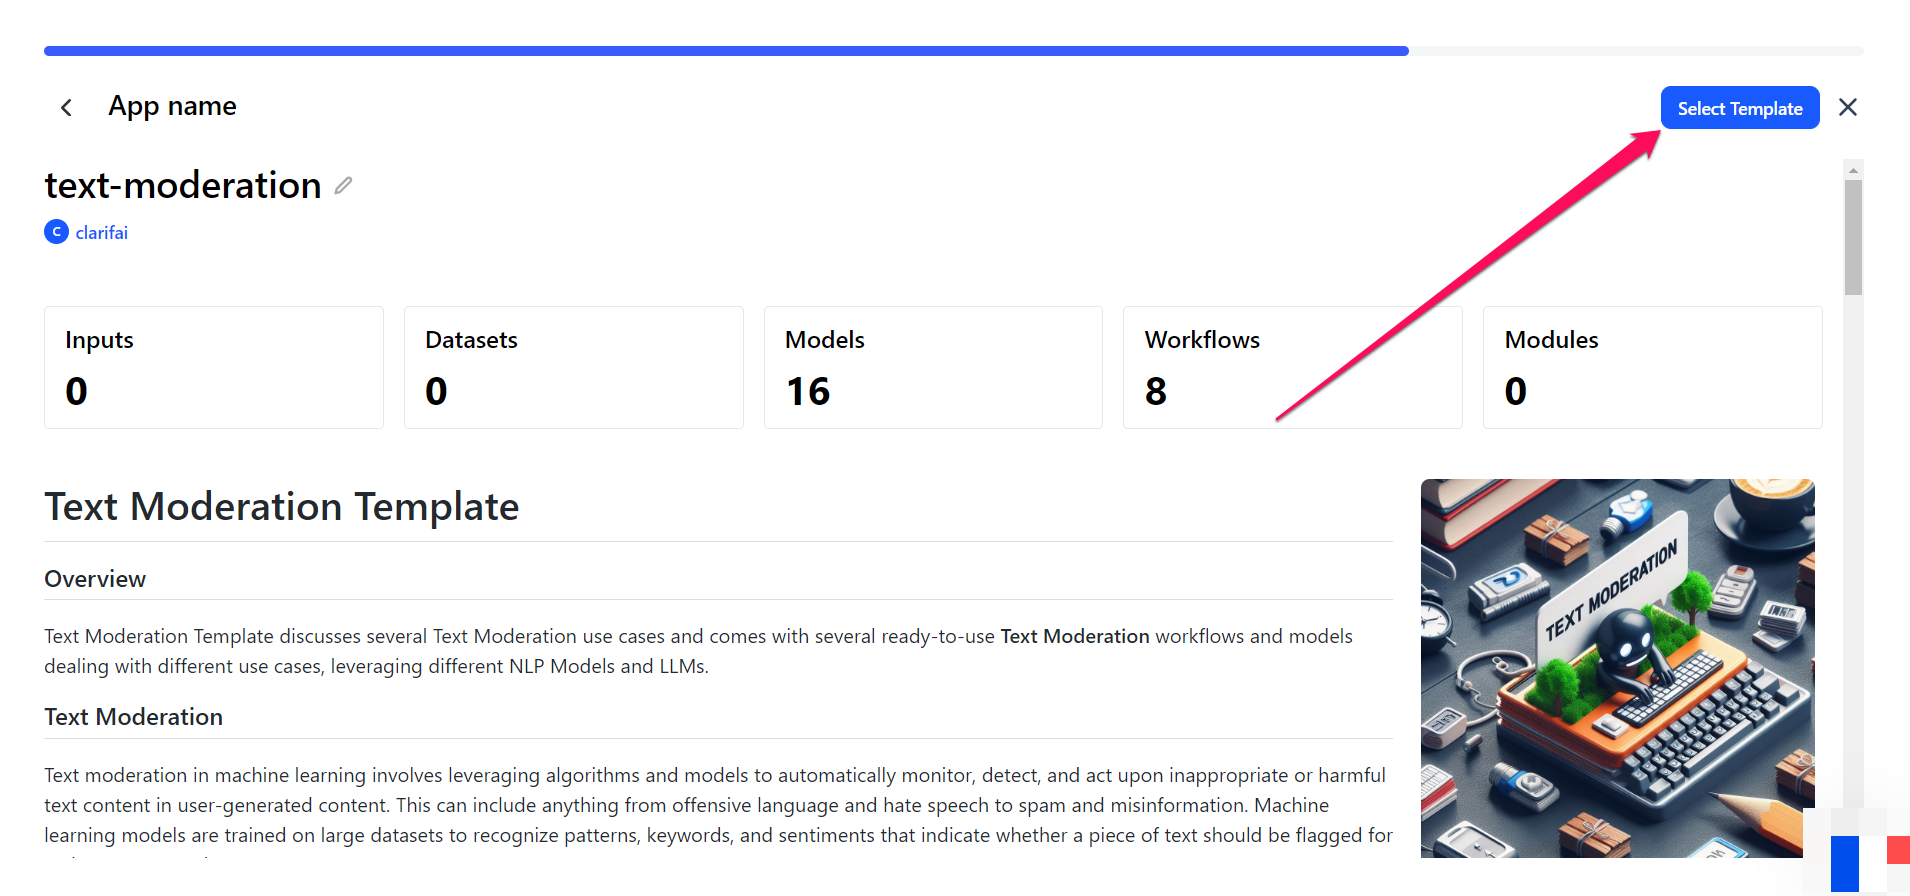
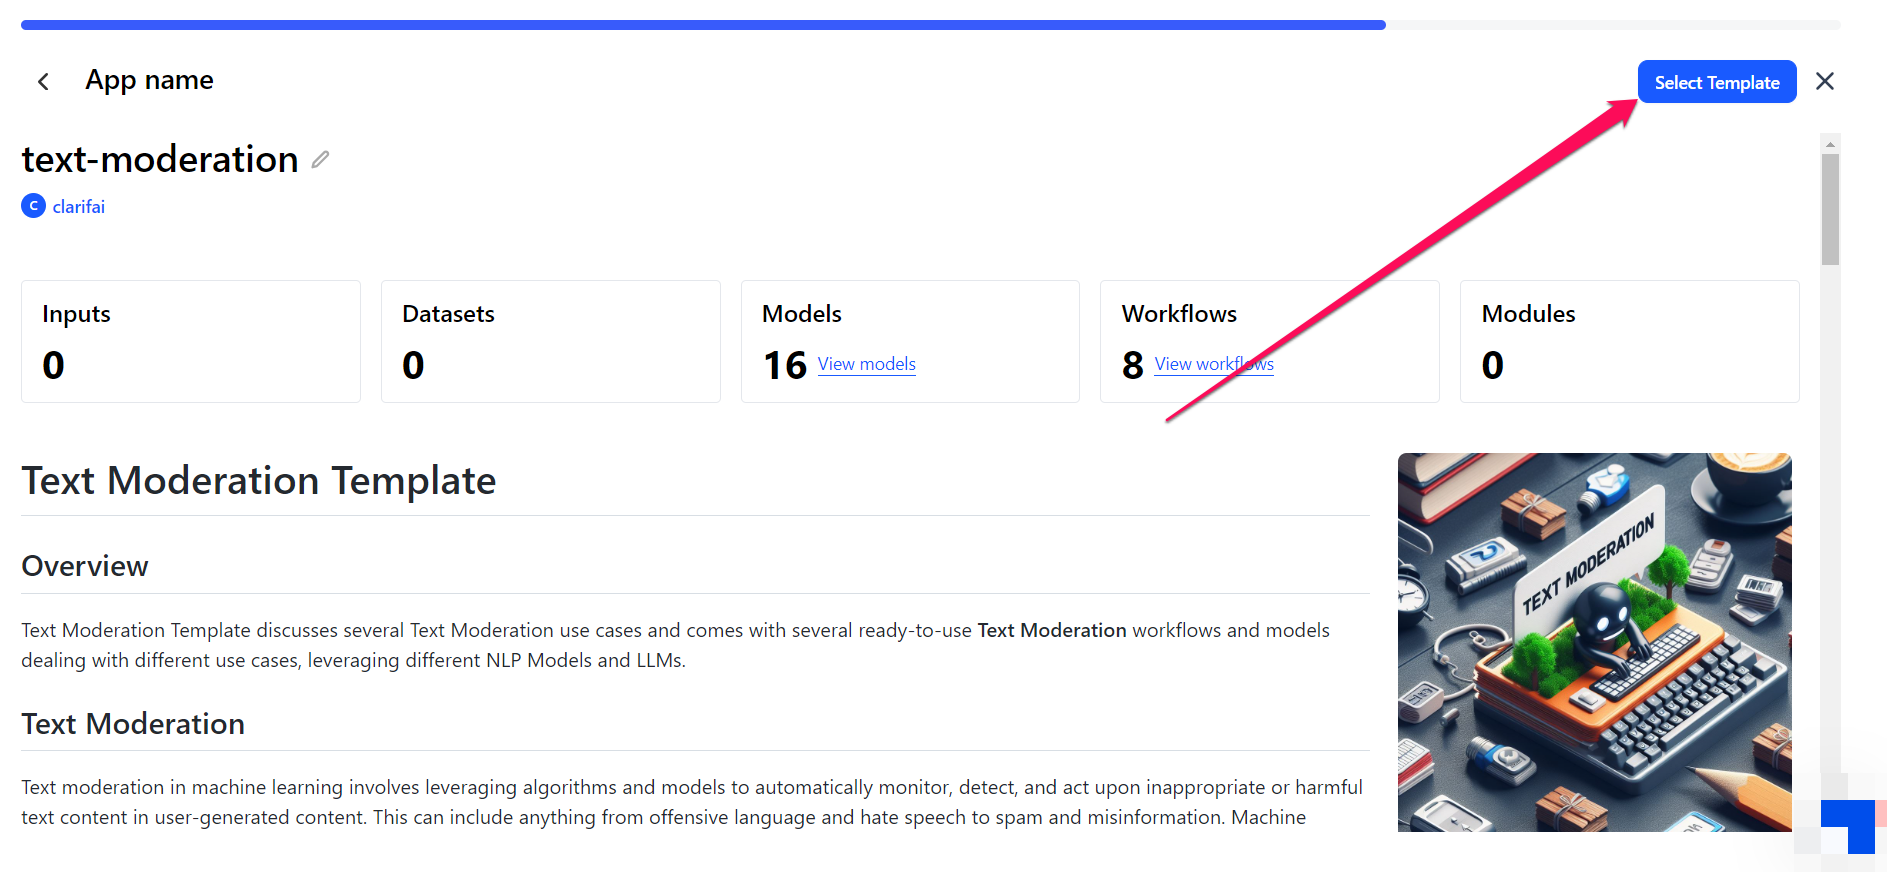
updated app templates

diff --git a/docs/clarifai-basics/app-templates.md b/docs/clarifai-basics/app-templates.md
@@ -73,13 +73,13 @@ For this illustration, let’s select the **text-moderation** template, which is
 
 On the template’s individual page, you'll find an overview of its available resources as well as a description of its functionality. 
 
+![](/img/others/app-template-3-1.png)
+
 When you click the view link of a resource, a modal will pop up, allowing you to easily view the available resources in the template, including inputs, datasets, models, workflows, and modules.
 
 For example, if you click the **View models** link, a modal will appear displaying the models included in the template. You can also browse through the other tabs to explore additional resources present in the template.
 
- 
-
-
+![](/img/others/app-template-3-2.png)
 
 Next, click the **Select Template** button at the upper-right corner of the page. 
 
@@ -87,9 +87,9 @@ Next, click the **Select Template** button at the upper-right corner of the page
 
 Next, specify the setup of your new application. 
 
-Provide an app ID, which serves as a unique identifier for your application. It’s important to choose a unique and memorable ID as it will be used for URLs and redirections. 
+- Provide an app ID, which serves as a unique identifier for your application. It’s important to choose a unique and memorable ID as it will be used for URLs and redirections. 
 
-Optionally, provide a brief description that outlines the purpose or features of your app. 
+- Optionally, provide a brief description that outlines the purpose or features of your app. 
 
 Lastly, click the **Create App** button at the upper-right corner of the page. 
 
